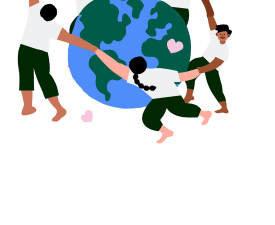
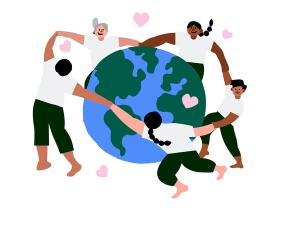
Corrige le visuel et le bouton de réservation bourse

diff --git a/bourses/index.html b/bourses/index.html
@@ -16,7 +16,7 @@
   <style>
     :root{--ink:#151515;--orange:#ffc873;--pink:#ffadca;--green:#056b5b;--muted:#555}
     *{box-sizing:border-box}html{scroll-behavior:smooth}body{margin:0;background:#fff;color:var(--ink);font-family:Inter,Arial,sans-serif;font-size:15px;line-height:1.42}main{width:min(100%,560px);margin:auto;overflow:hidden}.page{padding:38px 28px 0}.main-title{font:800 clamp(22px,6vw,29px)/1.08 Inter,Arial,sans-serif;letter-spacing:2px;text-align:center;margin:8px 0 24px}.hand-title{font:600 clamp(34px,9vw,48px)/.98 Caveat,cursive;text-align:center;margin:0 0 30px}h2{font-size:18px;margin:30px 0 16px}h3{font-size:15px;margin:22px 0 12px}p{margin:0 0 16px}.lead{font-weight:700;font-size:16px}.just{text-align:justify}.collage{width:calc(100% + 20px);margin:18px -10px 5px}.collage img{width:100%;display:block}.note{display:inline-block;background:var(--orange);padding:12px 18px;transform:rotate(3deg);font-family:Caveat,cursive;font-size:18px}.dots{display:flex;gap:22px;justify-content:flex-end;margin:35px 18px 95px}.dots i{width:13px;height:13px;border-radius:50%;background:var(--orange)}.circle-title{position:relative;display:inline-block}.circle-title:after{content:"";position:absolute;inset:-12px -22px -9px -17px;border:3px solid var(--pink);border-radius:50%;transform:rotate(7deg);pointer-events:none}.star{float:right;color:var(--green);font-size:34px;line-height:1}ul,ol{padding-left:25px;margin:12px 0 25px}li{margin:4px 0}.documents li{margin:10px 0}.strong{font-weight:800}.reader{width:64%;margin:28px 0 0}.reader img,.booking-visual img,.world img{width:100%;display:block}.reader-row{display:flex;align-items:flex-start;justify-content:space-between}.mini-dots{display:flex;gap:20px;padding-top:45px}.mini-dots i{width:12px;height:12px;background:var(--orange);border-radius:50%}.booking-visual{width:56%;margin:12px 0 0 auto}.booking-title{margin-top:-12px}.heart{color:var(--orange)}.price{font-style:italic;font-weight:800}.book-link{display:inline-block;color:#111;text-decoration:underline;font-weight:500;padding:3px 0 8px}.book-link:hover,.book-link:focus{color:#0866d9}.address{font-weight:800}.warning{font-weight:800}.agency{margin-top:35px}.world{width:62%;margin:-5px 0 0 auto}.footer-space{height:12px}.back{position:fixed;left:14px;top:14px;width:42px;height:42px;border-radius:50%;background:#fff;color:#111;display:grid;place-items:center;text-decoration:none;box-shadow:0 5px 18px #0002;font-size:20px;z-index:5}
-    .main-title{font-size:clamp(16px,4.5vw,22px);letter-spacing:1.3px}.hand-title{font-size:clamp(19px,5.6vw,27px);line-height:1.05}.title-line{display:block;white-space:nowrap}.eligibility-head{display:flex;align-items:center;justify-content:space-between;gap:12px;margin:30px 0 18px}.eligibility-head .circle-title{flex:0 1 auto;margin:0;font-size:13px;white-space:nowrap}.eligibility-head .circle-title:after{inset:-10px -15px -8px -13px}.eligibility-head .star{float:none;flex:0 0 auto;font-size:31px}.collage{position:relative;margin-bottom:48px}.hero-note{position:absolute;right:24px;bottom:-38px;width:132px;min-height:76px;background:var(--orange);padding:12px 9px;transform:rotate(3deg);font:600 17px/1.05 Caveat,cursive;text-align:center}.booking-visual{position:relative;margin-bottom:54px}.booking-note{position:absolute;left:-12px;bottom:-42px;width:130px;min-height:82px;background:var(--orange);padding:15px 12px;transform:rotate(-2deg);font:600 27px/1.05 Caveat,cursive;text-align:center}.booking-title{margin-top:0}.price{font-style:normal}.footer-space{height:0}
+    .main-title{font-size:clamp(16px,4.5vw,22px);letter-spacing:1.3px}.hand-title{font-size:clamp(19px,5.6vw,27px);line-height:1.05}.title-line{display:block;white-space:nowrap}.eligibility-head{display:flex;align-items:center;justify-content:space-between;gap:12px;margin:30px 0 18px}.eligibility-head .circle-title{flex:0 1 auto;margin:0;font-size:13px;white-space:nowrap}.eligibility-head .circle-title:after{inset:-10px -15px -8px -13px}.eligibility-head .star{float:none;flex:0 0 auto;font-size:31px}.collage{position:relative;margin-bottom:48px}.hero-note{position:absolute;right:24px;bottom:-38px;width:132px;min-height:76px;background:var(--orange);padding:12px 9px;transform:rotate(3deg);font:600 17px/1.05 Caveat,cursive;text-align:center}.booking-visual{position:relative;margin-bottom:54px}.booking-note{position:absolute;left:-12px;bottom:-42px;width:130px;min-height:82px;background:var(--orange);padding:15px 12px;transform:rotate(-2deg);font:600 27px/1.05 Caveat,cursive;text-align:center}.booking-title{margin-top:0}.price{font-style:normal}.book-link{display:block;width:100%;background:#2878f5;color:#fff!important;text-decoration:none;padding:12px 18px;border-radius:8px;text-align:center;font-weight:700}.footer-space{height:0}
     @media(min-width:561px){body{background:#f4f4f4}main{background:#fff;box-shadow:0 0 30px #0001}.page{padding-left:48px;padding-right:48px}}
     @media(max-width:380px){body{font-size:14px}.page{padding-left:20px;padding-right:20px}.main-title{font-size:15px}.hand-title{font-size:18px}.dots{margin-bottom:70px}.world{width:68%}}
   </style>
@@ -74,7 +74,7 @@
     <p class="price">Frais de consultation&nbsp;: 6&nbsp;500 FC</p>
     <p><span class="strong">Prendre rendez-vous&nbsp;:</span><br><a class="book-link" href="/rendez-vous/">Cliquez ici</a></p>
 
-    <h3 class="address">📍 Notre adresse à Kinshasa</h3>
+    <h3 class="address">Notre adresse à Kinshasa</h3>
     <p>Avenue Kwango, Immeuble 130B, 5<sup>e</sup> niveau, Commune de la Gombe, Kinshasa.</p>
     <p><span class="strong">Référence&nbsp;:</span> Ancien INA.</p>
     <p><span class="warning">⚠ Nous recevons exclusivement sur rendez-vous confirmé.</span><br>Veuillez apporter vos documents en format numérique sur votre téléphone ou votre ordinateur.</p>
